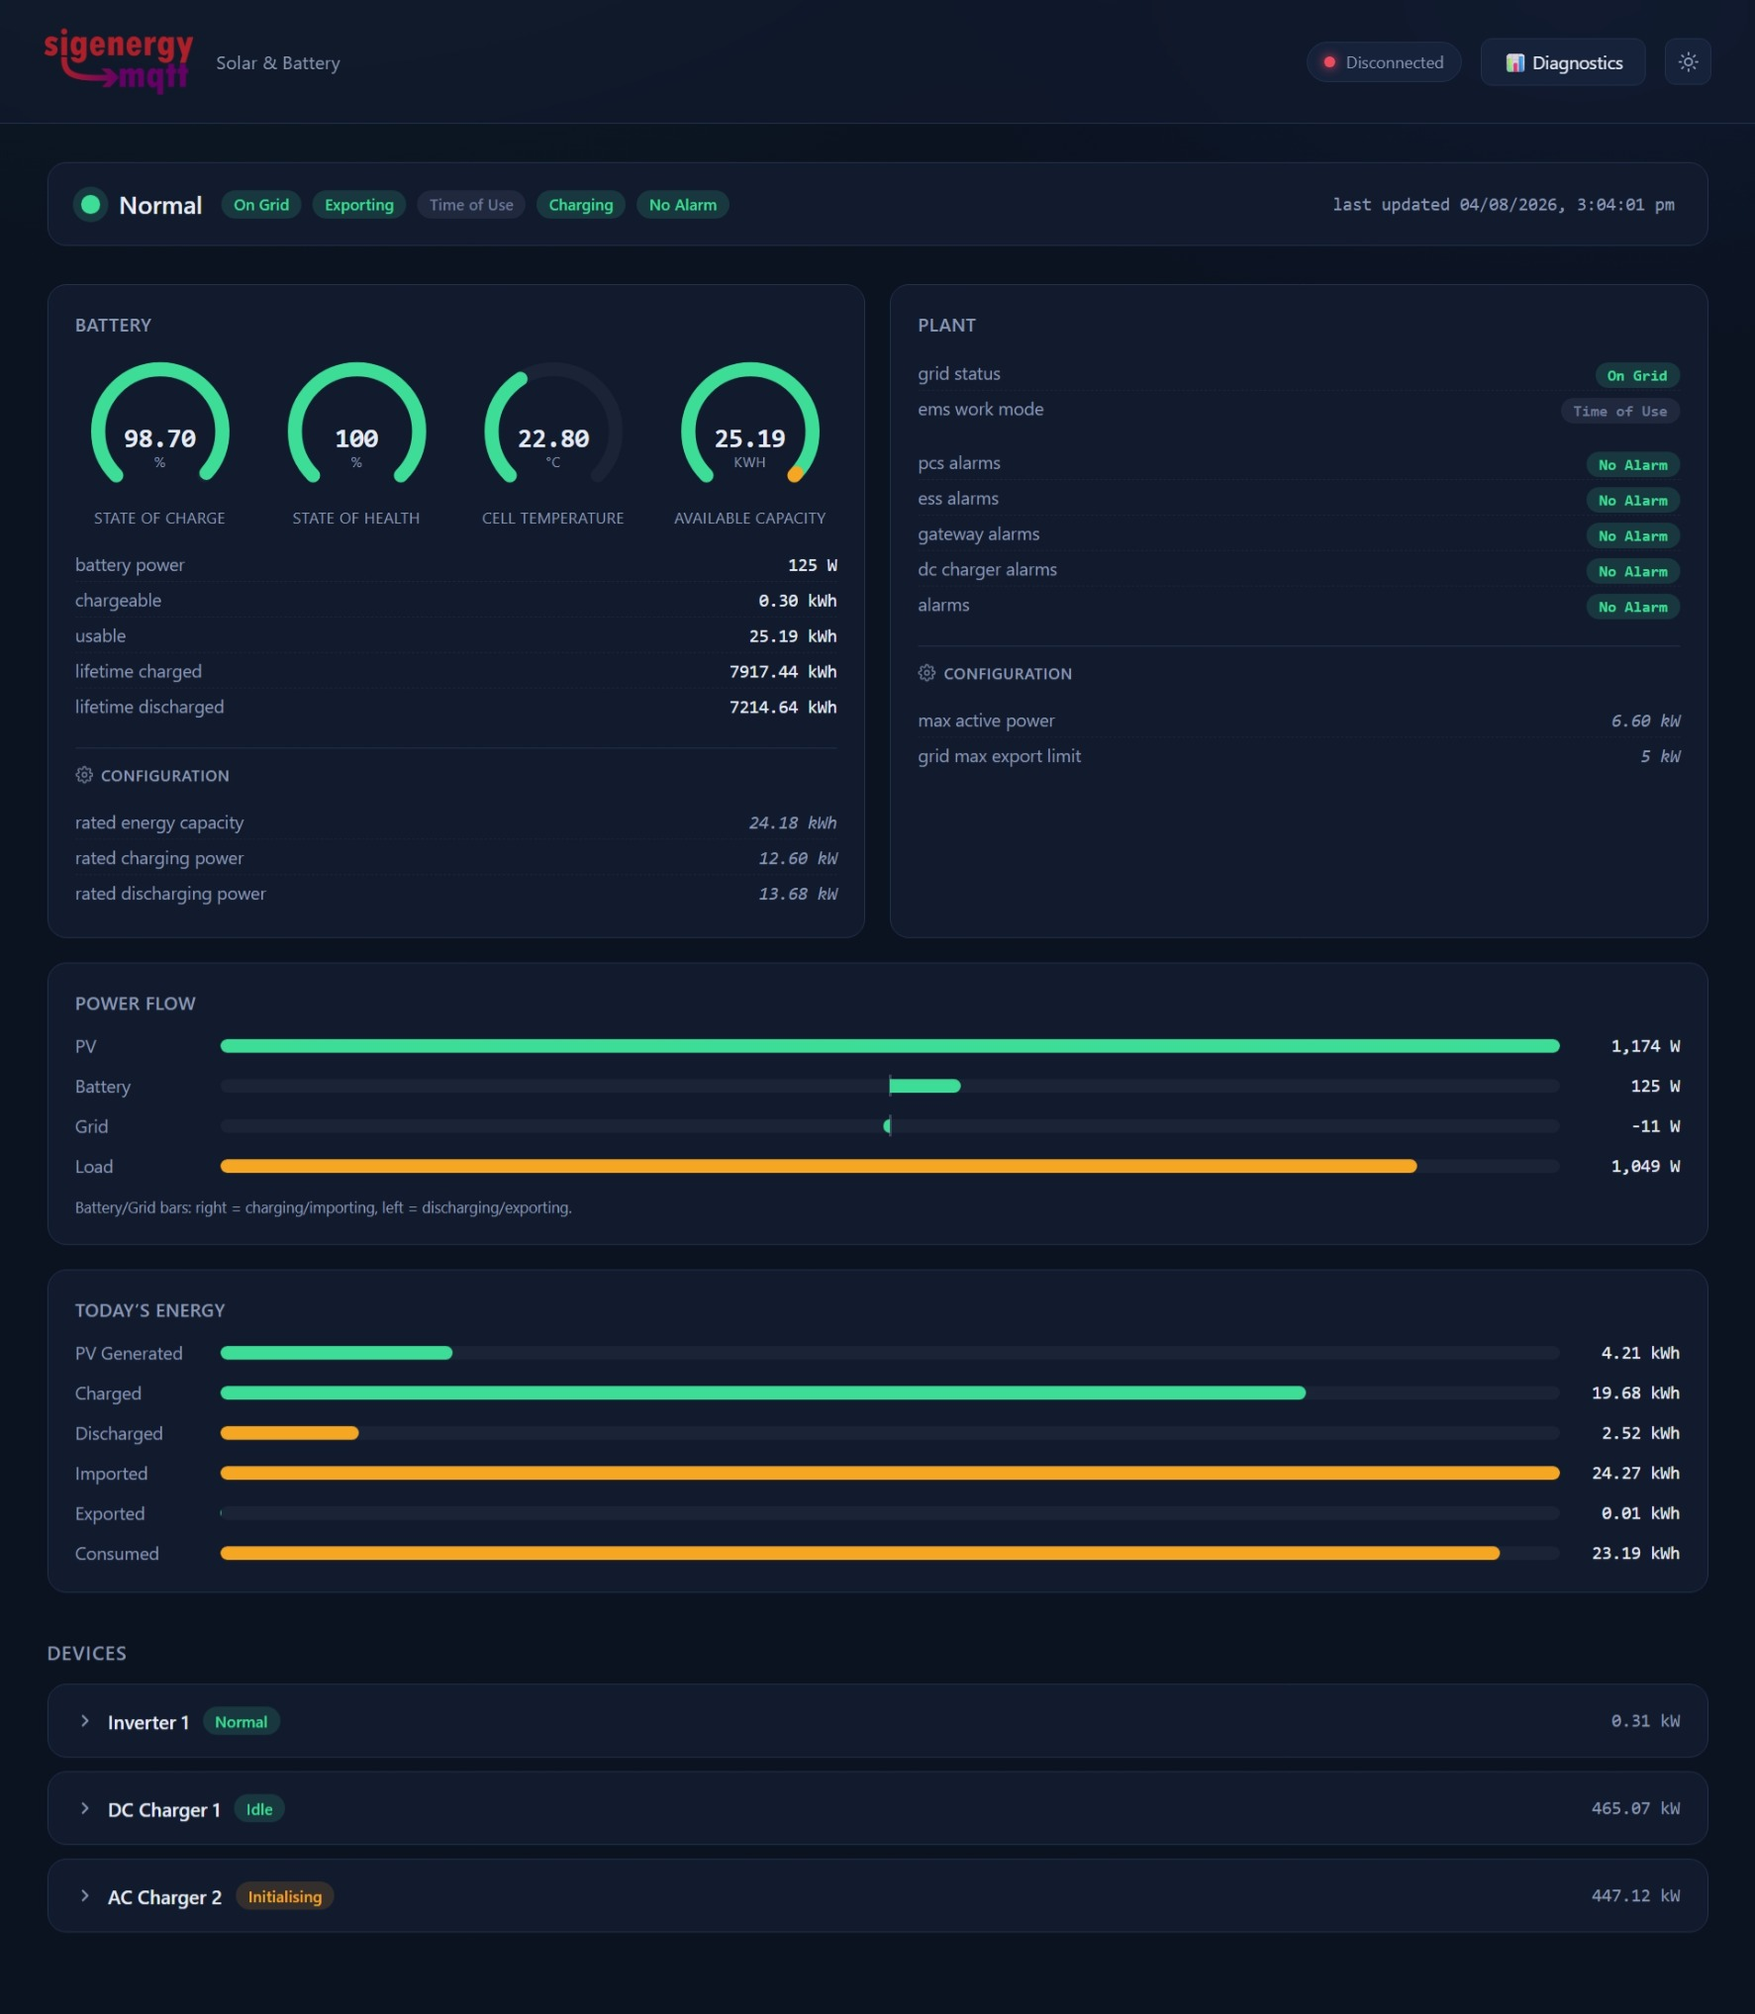
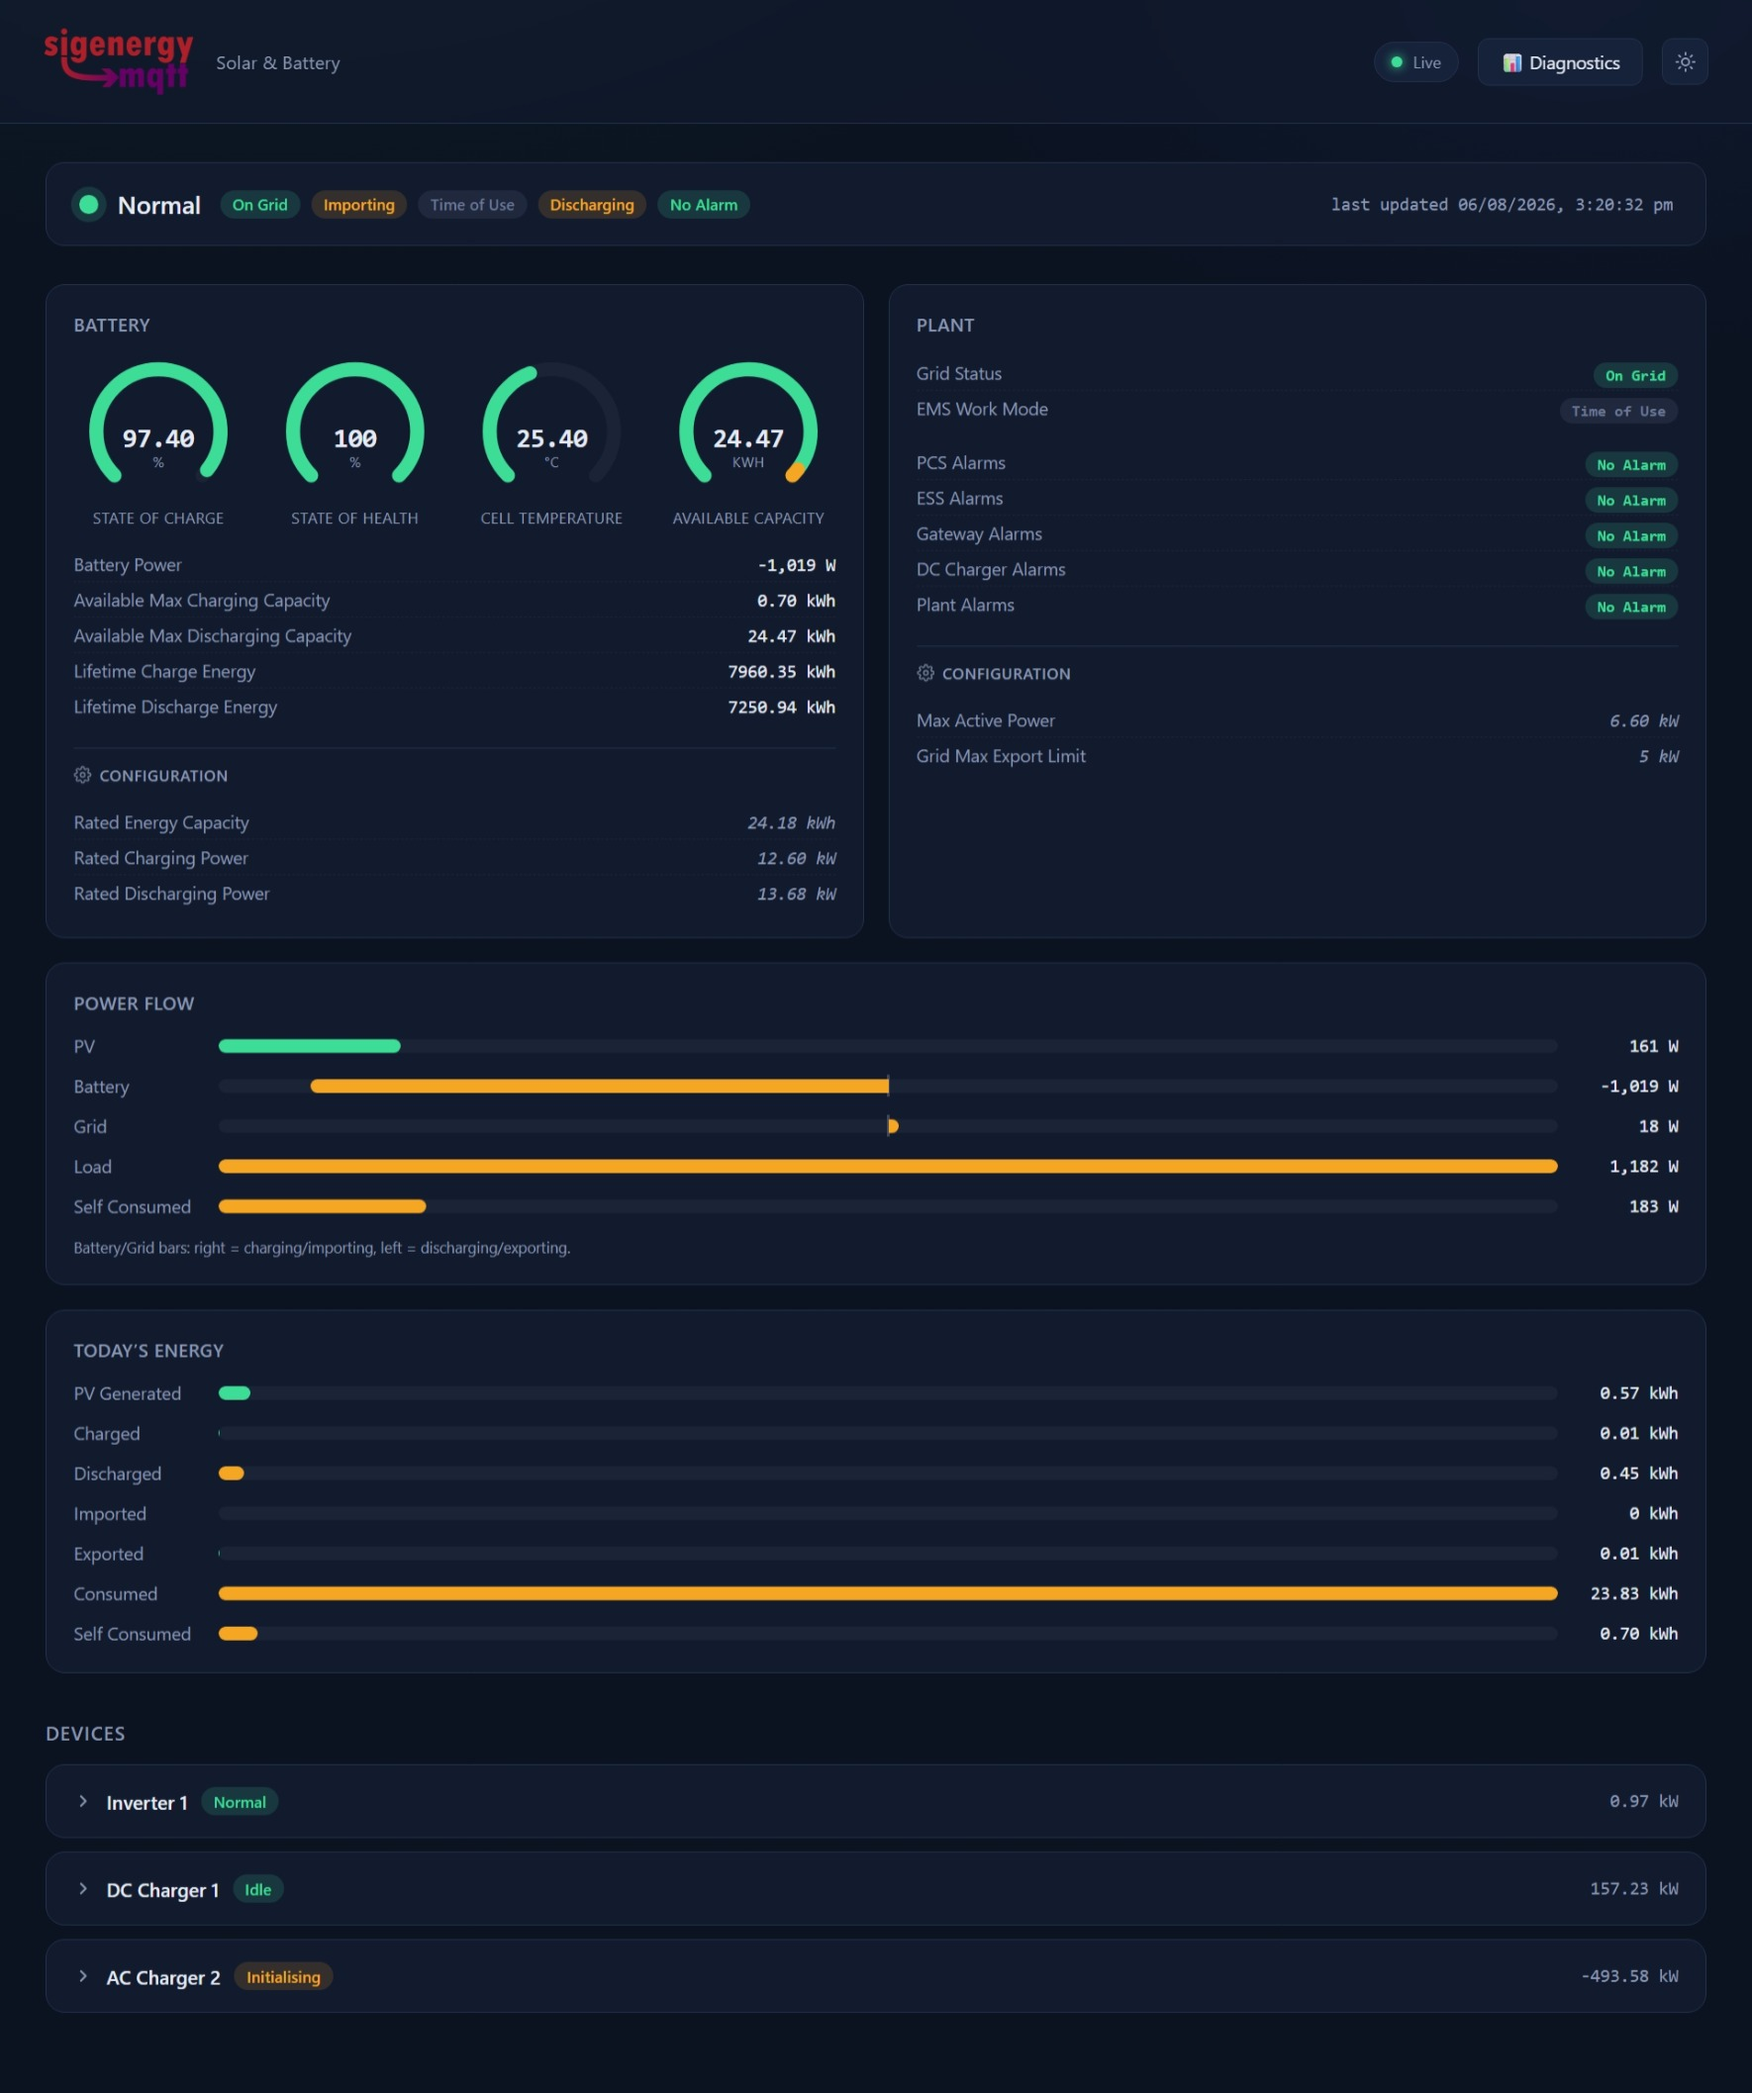
doc: updated screenshots

diff --git a/resources/sensors/TOPICS.md b/resources/sensors/TOPICS.md
@@ -534,11 +534,13 @@ The attributes payload currently includes:
 <h6>Metrics</h6>
 <a href='#sigen_influxdb_queries'>InfluxDB Queries</a><br>
 <a href='#sigen_influxdb_query_errors'>InfluxDB Query Errors</a><br>
+<a href='#sigen_influxdb_rate_limit_waits'>InfluxDB Rate Limit Waits</a><br>
 <a href='#sigen_influxdb_retries'>InfluxDB Retries</a><br>
 <a href='#sigen_influxdb_throughput'>InfluxDB Throughput</a><br>
 <a href='#sigen_influxdb_write_errors'>InfluxDB Write Errors</a><br>
 <a href='#sigen_influxdb_write_max'>InfluxDB Write Max</a><br>
 <a href='#sigen_influxdb_write_mean'>InfluxDB Write Mean</a><br>
+<a href='#sigen_influxdb_write_min'>InfluxDB Write Min</a><br>
 <a href='#sigen_influxdb_writes'>InfluxDB Writes</a><br>
 <a href='#sigen_mqtt_physical_publish_percentage'>MQTT Physical Publishes</a><br>
 <a href='#sigen_mqtt_publish_failures'>MQTT Publish Failures</a><br>
@@ -568,7 +570,7 @@ The attributes payload currently includes:
 <a href='#sigen_state_store_delete_errors'>State Store Delete Errors</a><br>
 <a href='#sigen_state_store_deletes'>State Store Deletes</a><br>
 <a href='#sigen_state_store_load_errors'>State Store Load Errors</a><br>
-<a href='#sigen_state_store_load_hit_percentage'>State Store Load Hit %</a><br>
+<a href='#sigen_state_store_load_hit_percentage'>State Store Load Hits %</a><br>
 <a href='#sigen_state_store_loads'>State Store Loads</a><br>
 <a href='#sigen_state_store_save_errors'>State Store Save Errors</a><br>
 <a href='#sigen_state_store_save_max'>State Store Save Max</a><br>
@@ -627,7 +629,7 @@ The attributes payload currently includes:
 <a href='#sigen_0_001_41000_set'>DC Charger Stop/Start</a><br>
 <a href='#sigen_0_001_41002_set'>Max Charging Power Limit</a><br>
 <a href='#sigen_0_001_41004_set'>Max Discharging Power Limit</a><br>
-<br><br><br><br><br><br><br><br><br><br><br><br><br><br><br><br><br><br><br><br><br><br><br><br><br><br><br><br><br><br><br><br><br><br><br><br><br><br><br><br><br><br><br><br><br><br><br><br><br><br><br><br><br><br><br><br><br><br><br><br><br><br><br><br><br><br><br><br><br><br><br><br><br><br><br><br><br><br><br><br><br><br><br><br><br><br><br><br><br><br><br><br><br><br><br><br><br><br><br><br><br><br><br><br><br><br><br><br><br><br><br><br><br><br><br><br><br><br><br><br><br><br><br><br><br><br><br><br><br><br><br><br><br><br><br><br><br><br><br><br><br><br><br><br><br><br><br><br><br><br><br><br><br><br><br><br><br><br><br><br><br><br><br><br><br><br><br><br><br><br><br><br><br><br><br><br><br><br><br><br><br><br><br><br><br><br><br><br><br><br><br><br><br><br><br><br><br><br><br><br><br><br><br><br><br><br><br><br><br><br><br><br><br><br><br><br><br><br><br><br><br><br><br><br><br><br><br><br><br><br><br><br><br><br><br><br><br><br><br><br><br><br><br><br><br><br><br><br><br><br><br><br><br><br><br><br><br><br><br><br><br><br><br><br><br><br><br><br><br><br><br><br><br><br><br><br><br><br><br><br><br><br><br><br><br><br><br><br><br><br><br><br><br><br><br><br><br><br><br><br><br><br><br><br><br><br><br><br><br><br><br><br><br><br><br><br><br><br><br><br><br><br><br><br><br><br><br><br><br><br><br><br><br><br><br><br><br><br><br><br><br><br><br><br><br><br><br><br><br><br><br><br><br><br><br><br><br><br><br><br><br><br><br><br><br><br><br><br><br><br><br><br><br><br><br><br><br><br><br><br><br><br><br><br><br><br><br><br><br><br><br><br><br><br><br><br><br><br><br><br><br><br><br><br><br><br><br><br><br><br><br><br><br><br><br><br><br><br><br><br><br><br><br><br><br><br><br><br><br><br><br><br><br><br><br><br><br><br><br><br><br><br><br><br><br><br><br><br><br><br><br><br><br><br><br><br><br><br><br><br><br><br><br><br></td></tr>
+<br><br><br><br><br><br><br><br><br><br><br><br><br><br><br><br><br><br><br><br><br><br><br><br><br><br><br><br><br><br><br><br><br><br><br><br><br><br><br><br><br><br><br><br><br><br><br><br><br><br><br><br><br><br><br><br><br><br><br><br><br><br><br><br><br><br><br><br><br><br><br><br><br><br><br><br><br><br><br><br><br><br><br><br><br><br><br><br><br><br><br><br><br><br><br><br><br><br><br><br><br><br><br><br><br><br><br><br><br><br><br><br><br><br><br><br><br><br><br><br><br><br><br><br><br><br><br><br><br><br><br><br><br><br><br><br><br><br><br><br><br><br><br><br><br><br><br><br><br><br><br><br><br><br><br><br><br><br><br><br><br><br><br><br><br><br><br><br><br><br><br><br><br><br><br><br><br><br><br><br><br><br><br><br><br><br><br><br><br><br><br><br><br><br><br><br><br><br><br><br><br><br><br><br><br><br><br><br><br><br><br><br><br><br><br><br><br><br><br><br><br><br><br><br><br><br><br><br><br><br><br><br><br><br><br><br><br><br><br><br><br><br><br><br><br><br><br><br><br><br><br><br><br><br><br><br><br><br><br><br><br><br><br><br><br><br><br><br><br><br><br><br><br><br><br><br><br><br><br><br><br><br><br><br><br><br><br><br><br><br><br><br><br><br><br><br><br><br><br><br><br><br><br><br><br><br><br><br><br><br><br><br><br><br><br><br><br><br><br><br><br><br><br><br><br><br><br><br><br><br><br><br><br><br><br><br><br><br><br><br><br><br><br><br><br><br><br><br><br><br><br><br><br><br><br><br><br><br><br><br><br><br><br><br><br><br><br><br><br><br><br><br><br><br><br><br><br><br><br><br><br><br><br><br><br><br><br><br><br><br><br><br><br><br><br><br><br><br><br><br><br><br><br><br><br><br><br><br><br><br><br><br><br><br><br><br><br><br><br><br><br><br><br><br><br><br><br><br><br><br><br><br><br><br><br><br><br><br><br><br><br><br><br><br><br><br><br><br><br><br><br><br><br><br><br><br><br><br><br><br><br><br><br><br><br><br></td></tr>
 </table>
 
 ## Published Topics
@@ -6624,11 +6626,13 @@ InfluxDB Metrics are only published when the InfluxDB integration is enabled.
 |--------|---------:|------|------------|---------------|
 | <a id='sigen_influxdb_queries'>InfluxDB Queries</a> | 1 |  | sigenergy2mqtt/metrics/influxdb_queries ||
 | <a id='sigen_influxdb_query_errors'>InfluxDB Query Errors</a> | 1 |  | sigenergy2mqtt/metrics/influxdb_query_errors ||
+| <a id='sigen_influxdb_rate_limit_waits'>InfluxDB Rate Limit Waits</a> | 1 |  | sigenergy2mqtt/metrics/influxdb_rate_limit_waits ||
 | <a id='sigen_influxdb_retries'>InfluxDB Retries</a> | 1 |  | sigenergy2mqtt/metrics/influxdb_retries ||
 | <a id='sigen_influxdb_throughput'>InfluxDB Throughput</a> | 1 |  | sigenergy2mqtt/metrics/influxdb_throughput ||
 | <a id='sigen_influxdb_write_errors'>InfluxDB Write Errors</a> | 1 |  | sigenergy2mqtt/metrics/influxdb_write_errors ||
 | <a id='sigen_influxdb_write_max'>InfluxDB Write Max</a> | 1 | ms | sigenergy2mqtt/metrics/influxdb_write_max ||
 | <a id='sigen_influxdb_write_mean'>InfluxDB Write Mean</a> | 1 | ms | sigenergy2mqtt/metrics/influxdb_write_mean ||
+| <a id='sigen_influxdb_write_min'>InfluxDB Write Min</a> | 1 | ms | sigenergy2mqtt/metrics/influxdb_write_min ||
 | <a id='sigen_influxdb_writes'>InfluxDB Writes</a> | 1 |  | sigenergy2mqtt/metrics/influxdb_writes ||
 | <a id='sigen_mqtt_physical_publish_percentage'>MQTT Physical Publishes</a> | 1 | % | sigenergy2mqtt/metrics/mqtt_physical_publish_percentage ||
 | <a id='sigen_mqtt_publish_failures'>MQTT Publish Failures</a> | 1 |  | sigenergy2mqtt/metrics/mqtt_publish_failures ||
@@ -6658,7 +6662,7 @@ InfluxDB Metrics are only published when the InfluxDB integration is enabled.
 | <a id='sigen_state_store_delete_errors'>State Store Delete Errors</a> | 1 |  | sigenergy2mqtt/metrics/state_store_delete_errors ||
 | <a id='sigen_state_store_deletes'>State Store Deletes</a> | 1 |  | sigenergy2mqtt/metrics/state_store_deletes ||
 | <a id='sigen_state_store_load_errors'>State Store Load Errors</a> | 1 |  | sigenergy2mqtt/metrics/state_store_load_errors ||
-| <a id='sigen_state_store_load_hit_percentage'>State Store Load Hit %</a> | 1 | % | sigenergy2mqtt/metrics/state_store_load_hit_percentage ||
+| <a id='sigen_state_store_load_hit_percentage'>State Store Load Hits %</a> | 1 | % | sigenergy2mqtt/metrics/state_store_load_hit_percentage ||
 | <a id='sigen_state_store_loads'>State Store Loads</a> | 1 |  | sigenergy2mqtt/metrics/state_store_loads ||
 | <a id='sigen_state_store_save_errors'>State Store Save Errors</a> | 1 |  | sigenergy2mqtt/metrics/state_store_save_errors ||
 | <a id='sigen_state_store_save_max'>State Store Save Max</a> | 1 | ms | sigenergy2mqtt/metrics/state_store_save_max ||
